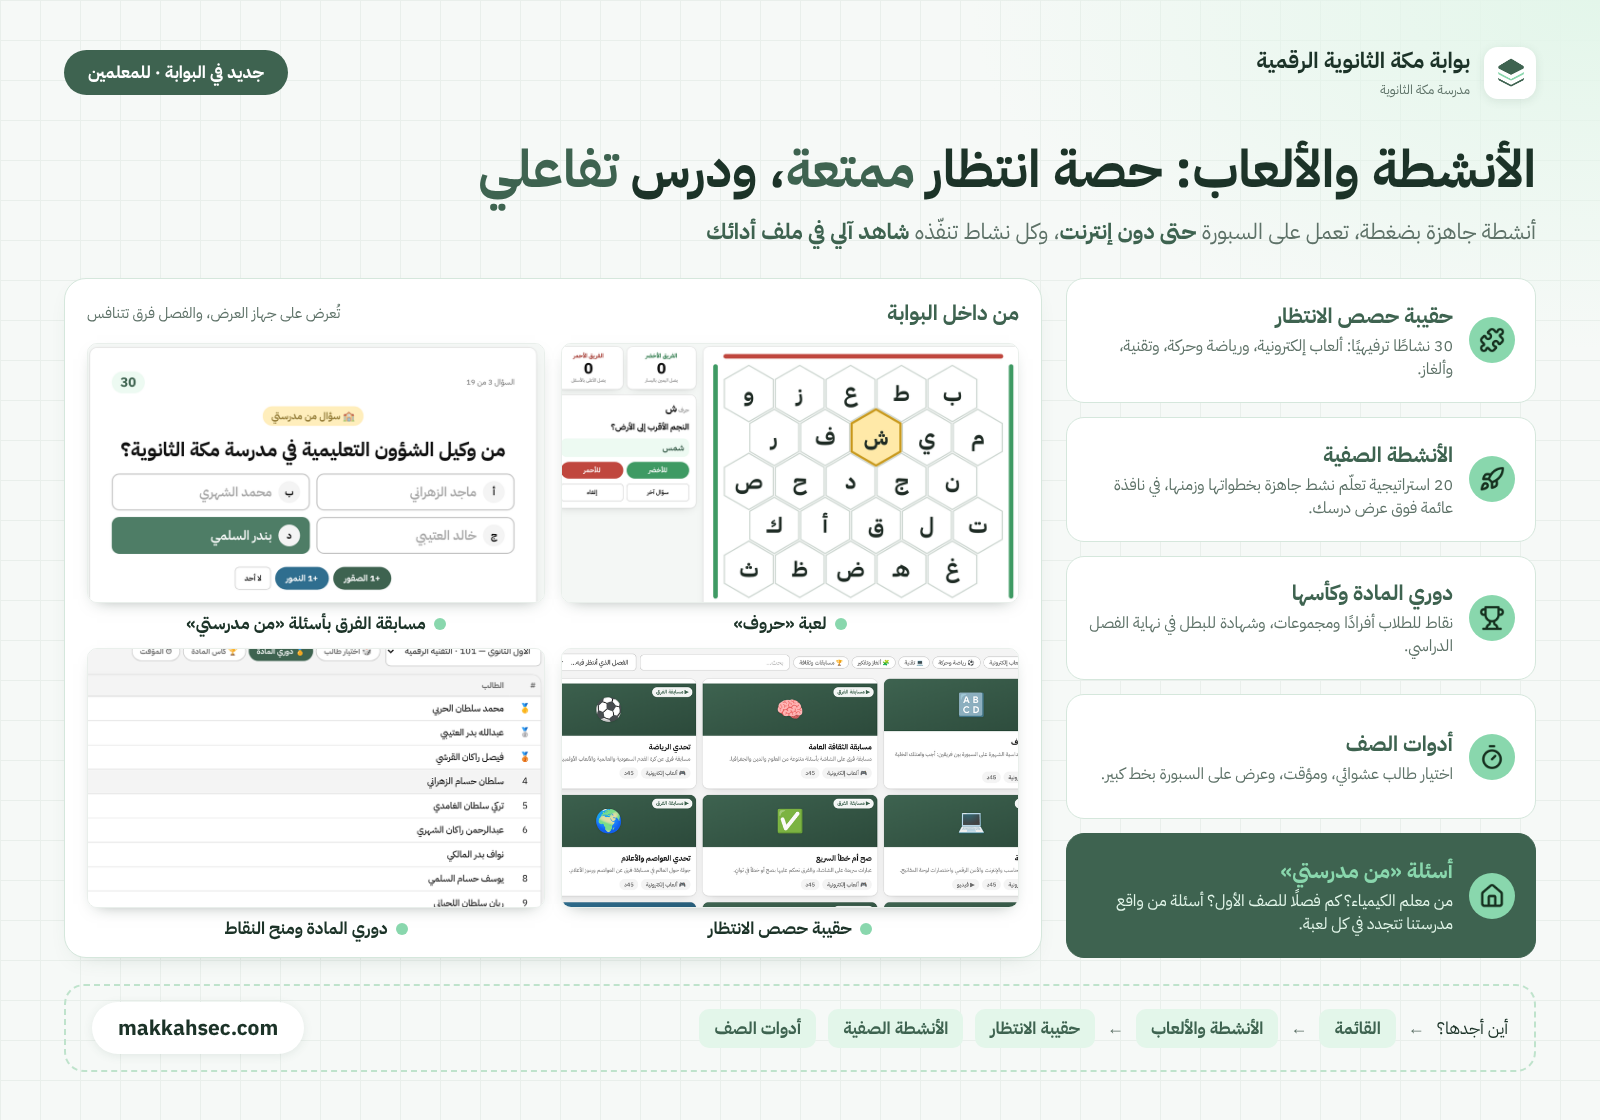
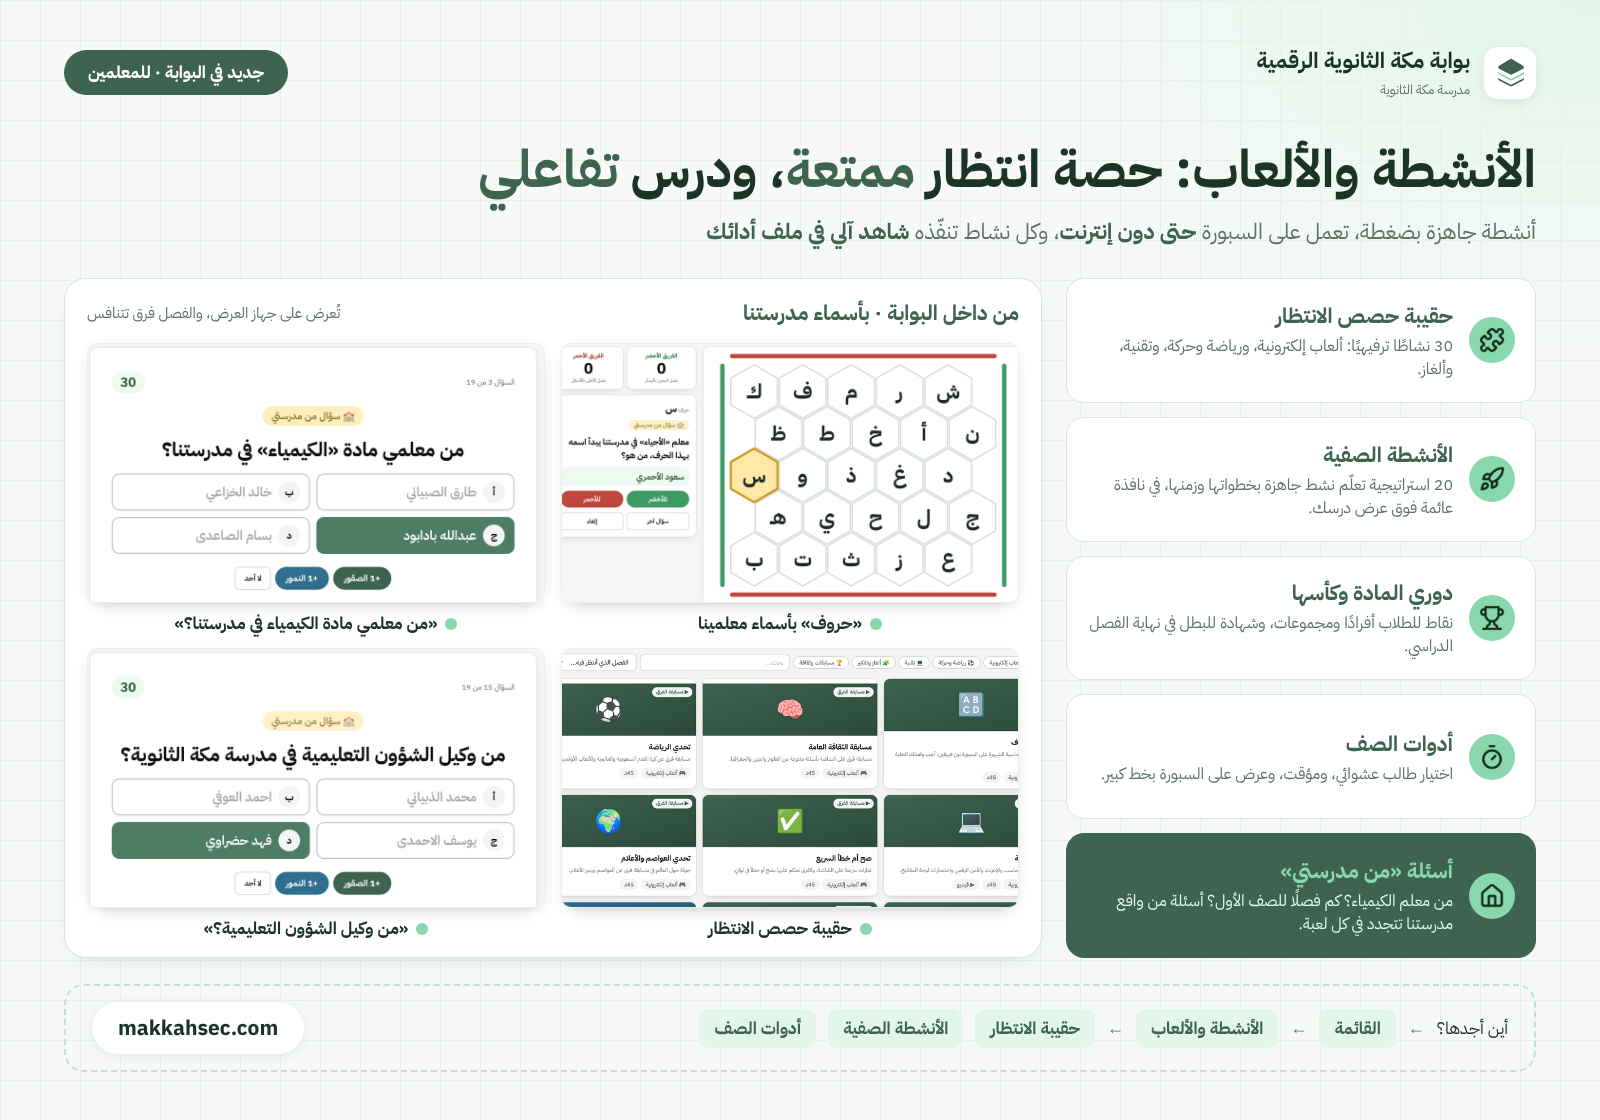
«من مدرستي»: الاسم الأول واسم العائلة على السبورة، ومنشور الأنشطة بأسماء معلمي المدرسة
Claude-Session: https://claude.ai/code/session_01Rgn9H8rfrs15u85uTK8qzM

diff --git a/docs/activities-post/post.html b/docs/activities-post/post.html
@@ -66,12 +66,12 @@ h1 em{font-style:normal;color:#3E6350}
   <div class="c dk"><i><img src="../model-lesson/build/icons/House.png"></i><div><b>أسئلة «من مدرستي»</b><p>من معلم الكيمياء؟ كم فصلًا للصف الأول؟ أسئلة من واقع مدرستنا تتجدد في كل لعبة.</p></div></div>
  </div>
  <div class="shots">
-  <div class="ph"><b>من داخل البوابة</b><span>تُعرض على جهاز العرض، والفصل فرق تتنافس</span></div>
+  <div class="ph"><b>من داخل البوابة · بأسماء مدرستنا</b><span>تُعرض على جهاز العرض، والفصل فرق تتنافس</span></div>
   <div class="grid">
-   <div class="v"><img src="shots/huroof.png"><p><i></i>لعبة «حروف»</p></div>
-   <div class="v"><img src="shots/quiz.png"><p><i></i>مسابقة الفرق بأسئلة «من مدرستي»</p></div>
+   <div class="v"><img src="shots/huroof.png"><p><i></i>«حروف» بأسماء معلمينا</p></div>
+   <div class="v"><img src="shots/quiz.png"><p><i></i>«من معلمي مادة الكيمياء في مدرستنا؟»</p></div>
    <div class="v"><img src="shots/bank.png"><p><i></i>حقيبة حصص الانتظار</p></div>
-   <div class="v"><img src="shots/league.png"><p><i></i>دوري المادة ومنح النقاط</p></div>
+   <div class="v"><img src="shots/quiz2.png"><p><i></i>«من وكيل الشؤون التعليمية؟»</p></div>
   </div>
  </div>
 </div>

diff --git a/src/lib/schoolQuestions.js b/src/lib/schoolQuestions.js
@@ -21,10 +21,19 @@ const addMin = (hm, m) => {
 };
 const nums = (n, deltas) => uniq(deltas.map((d) => n + d).filter((x) => x > 0)).map(String);
 
+// الاسم الأول واسم العائلة فقط (أوضح على السبورة): «سلطان علي يحي هزازي» ← «سلطان هزازي»
+export const shortName = (n) => {
+  const w = String(n ?? "").replace(/[-–—]/g, " ").split(/\s+/).filter((x) => x && !["بن", "ابن"].includes(x));
+  return w.length > 2 ? `${w[0]} ${w[w.length - 1]}` : w.join(" ");
+};
+const named = (f) => ({ ...f,
+  teachers: (f.teachers ?? []).map((t) => ({ ...t, name: shortName(t.name) })),
+  admins: (f.admins ?? []).map((a) => ({ ...a, name: shortName(a.name) })) });
+
 let cache = null;
 /** معلومات المدرسة مرة واحدة لكل تحميل للصفحة؛ null إن تعذّرت (دون إنترنت مثلًا) */
 export function loadSchoolFacts() {
-  cache ??= supabase.rpc("act_school_facts").then(({ data, error }) => (error ? null : data)).catch(() => null);
+  cache ??= supabase.rpc("act_school_facts").then(({ data, error }) => (error || !data ? null : named(data))).catch(() => null);
   return cache;
 }
 
